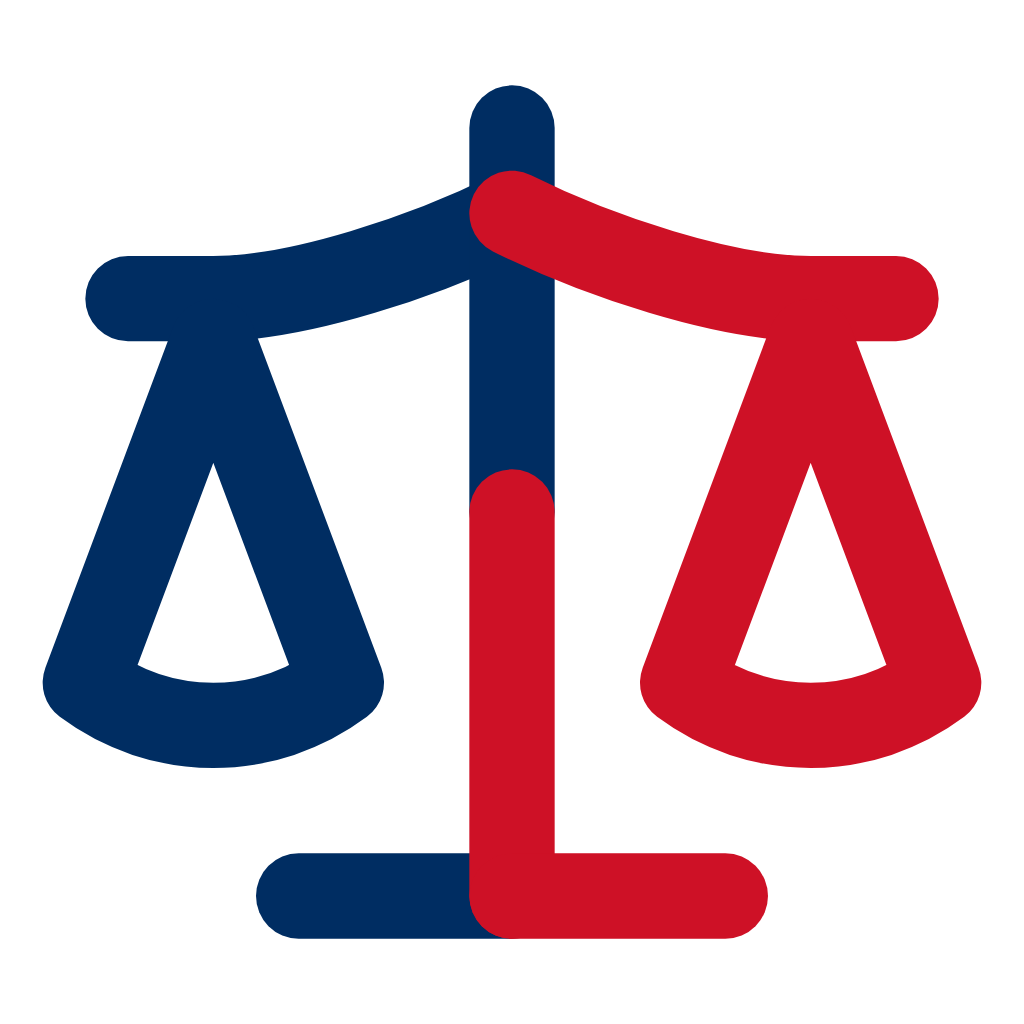
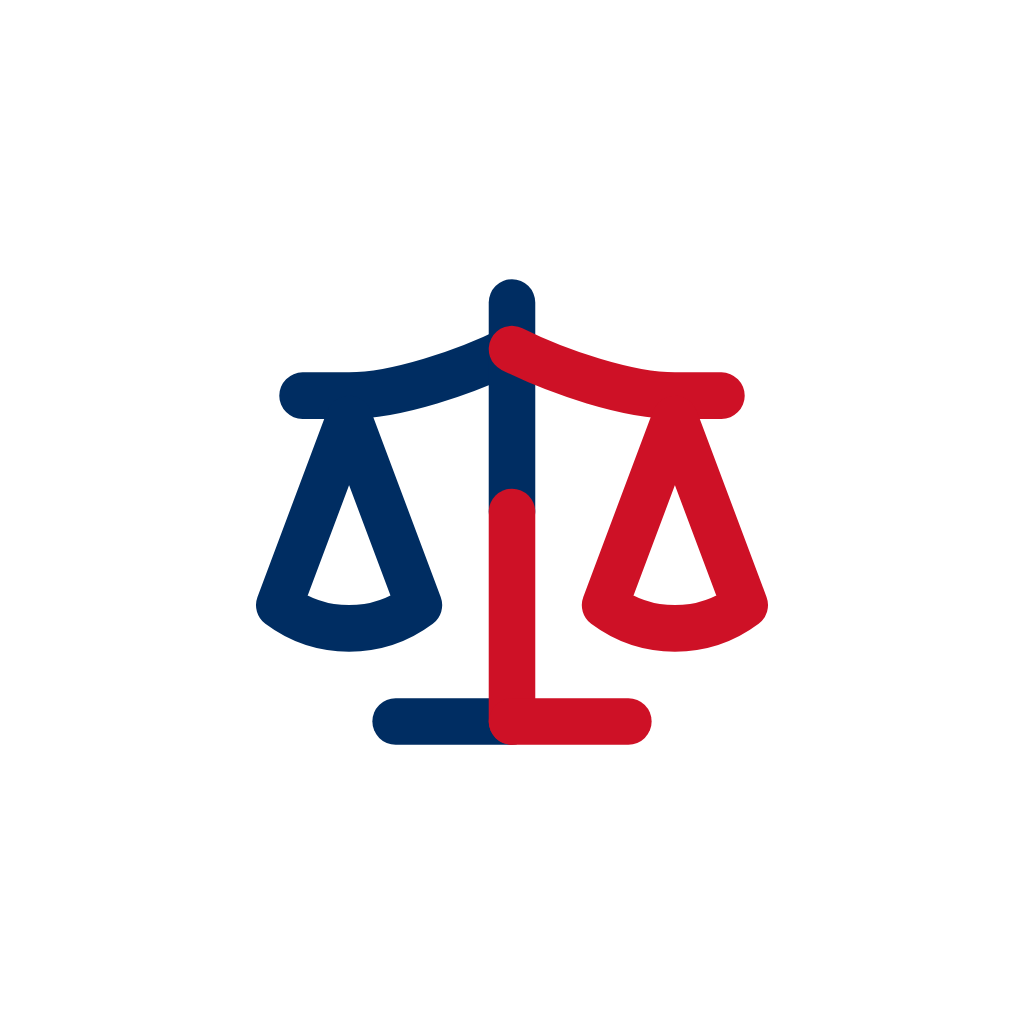
chore: update API config, add environment variables, and refresh assets
- Replace backend URL variables in `api-config.ts` for better local/production support.
- Add new environment variables to `.env.example` for backend configuration.
- Update `.gitignore` to include `android` directory.
- Add `icon.svg` and refresh app icon, splash screen, and favicon assets.

diff --git a/frontend/native/lib/api-config.ts b/frontend/native/lib/api-config.ts
@@ -1,7 +1,7 @@
 export const API = {
-  baseUrl: process.env.EXPO_PUBLIC_BACKEND_URL || "http://192.168.88.7:5000",
-  apiKey: process.env.EXPO_PUBLIC_API_KEY_FILTER || "",
-  chat: {
-    url: `${process.env.EXPO_PUBLIC_BACKEND_URL || "http://192.168.88.7:5000"}/api/chat`,
-  },
+    baseUrl: process.env.EXPO_PUBLIC_BACKEND_LOCAL || process.env.EXPO_PUBLIC_BACKEND_URL_PROD,
+    apiKey: process.env.EXPO_PUBLIC_API_KEY_FILTER || "",
+    chat: {
+        url: `${process.env.EXPO_PUBLIC_BACKEND_LOCAL || process.env.EXPO_PUBLIC_BACKEND_URL_PROD}/api/chat`,
+    },
 };
